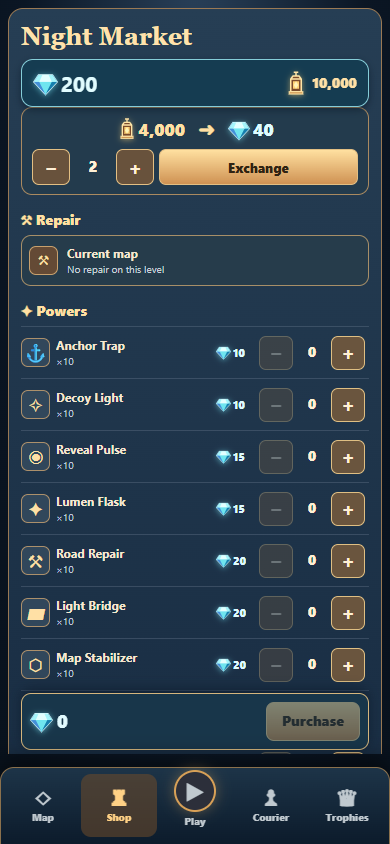
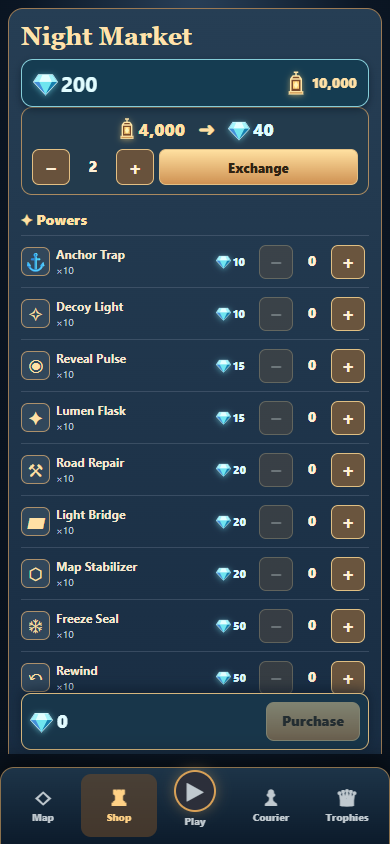
Keep map repairs on the map

Changed region(s): [[0.5538, 0.2773, 0.9538, 0.8318], [0.0308, 0.2464, 0.4308, 0.8318]]

diff --git a/game/shell.js b/game/shell.js
@@ -102,7 +102,7 @@
   const setActive = id => nav.querySelectorAll('button').forEach(b => b.classList.toggle('active', b.dataset.destination === id));
   const powerShop=document.getElementById('powerShop'),powerShopHome=powerShop.parentElement;
   const restorePowerShop=()=>{if(powerShop.parentElement!==powerShopHome)powerShopHome.append(powerShop)};
-  const close = () => { repairFromShop=false;restorePowerShop();overlay.hidden = true; overlay.innerHTML = '';document.body.classList.remove('modalOpen'); };
+  const close = () => { restorePowerShop();overlay.hidden = true; overlay.innerHTML = '';document.body.classList.remove('modalOpen'); };
   const panel = (title, body) => { restorePowerShop();overlay.hidden = false;document.body.classList.add('modalOpen');overlay.innerHTML = `<section class="integratedPanel" role="dialog" aria-modal="true" aria-label="${title}"><div class="head"><h2>${title}</h2><button class="close" type="button" aria-label="Close">×</button></div>${body}</section>`; };
   const legendButton=document.createElement('button');
   legendButton.type='button';legendButton.id='boardLegendButton';legendButton.setAttribute('aria-label','Map symbols');legendButton.textContent='?';
@@ -130,7 +130,6 @@
   const renderRepairCallout=()=>{const level=window.__campaign.getCurrentLevel(),r=level?.repair,s=getSave();if(!r||r.effect==='open'){repairCallout.hidden=true;return}repairCallout.hidden=false;const bought=!!s.repairs?.[level.n],cost=gems.repairPrice(r.cost),missing=Math.max(0,cost-s.gems);repairCallout.innerHTML=`<div class="repairMark" aria-hidden="true">⚒</div><div class="repairInfo"><strong>${bought?'Road repaired':r.name}</strong><span class="gemAmount">${bought?'Shortcut active':`${gemAmount(cost)} gems · ${gemAmount(s.gems)} owned${missing?` · need ${missing} more`:''}`}</span></div><button type="button" data-repair-open ${bought?'disabled':''}>${bought?'Done':'View'}</button>`};
   new MutationObserver(renderRepairCallout).observe(document.getElementById('repairBody'),{childList:true,subtree:true});
   repairCallout.addEventListener('click',e=>{if(e.target.closest('[data-repair-open]'))confirmRepair()});
-  let repairFromShop=false;
   const confirmRepair=()=>{const level=window.__campaign.getCurrentLevel(),r=level?.repair,s=getSave();if(!r||s.repairs?.[level.n])return;if(r.effect==='open'){const cell=document.querySelector(`#board .cell[data-x="${r.tile[0]}"][data-y="${r.tile[1]}"]`);if(cell)showRepairTile(cell);return}const cost=gems.repairPrice(r.cost),missing=Math.max(0,cost-s.gems);panel('Repair this road?',`<p><strong>${r.name}</strong></p><div class="repairCost"><span>Repair cost <strong class="gemAmount">${gemAmount(cost)} gems</strong></span><span>Owned <strong class="gemAmount">${gemAmount(s.gems)} gems</strong></span></div>${missing?`<p class="repairMissing">Need ${missing.toLocaleString()} more gems. Earn points and exchange them in the Shop.</p>`:''}<div class="repairActions"><button type="button" data-repair-cancel>Keep gems</button><button type="button" data-repair-approve ${missing?'disabled':''}>Spend ${cost} gems</button></div>`);overlay.querySelector('.integratedPanel').classList.add('repairPanel')};
   renderRepairCallout();
   const handledResults=new WeakSet();
@@ -142,12 +141,11 @@
   };
   const openShop = () => {
     close();
-    const s = getSave(),level=window.__campaign.getCurrentLevel(),repair=level?.repair,repaired=!!s.repairs?.[level?.n],repairCost=repair?gems.repairPrice(repair.cost):0;
+    const s = getSave();
     const maxExchange=Math.floor(s.wallet/gems.exchangePoints);
     exchangeQty=maxExchange?Math.max(1,Math.min(exchangeQty,maxExchange)):0;
     const exchangeMarkup=`<div class="shopExchange" aria-label="Exchange earned points for gems"><div class="exchangeAmounts"><strong class="pointAmount" data-exchange-points>${pointAmount(exchangeQty*gems.exchangePoints)}</strong><span aria-hidden="true">➜</span><strong class="gemAmount" data-exchange-total>${gemAmount(exchangeQty*gems.exchangeGems)}</strong></div><div class="exchangeControls"><button type="button" data-exchange-minus aria-label="Exchange one fewer batch" ${exchangeQty<=1?'disabled':''}>−</button><output data-exchange-qty aria-label="Exchange batches">${exchangeQty}</output><button type="button" data-exchange-plus aria-label="Exchange one more batch" ${exchangeQty>=maxExchange?'disabled':''}>+</button><button type="button" class="exchangeCommit" data-exchange-submit ${!exchangeQty?'disabled':''}>Exchange</button></div></div>`;
-    const repairCard=repair?`<div class="marketRepair"><span class="marketRepairIcon" aria-hidden="true">⚒</span><span><b>${repair.name}</b><small>${repaired?'✓ Repaired':repair.effect==='open'?'Marked tile · repair on map':'Level '+level.n}</small></span><strong class="gemAmount">${gemAmount(repairCost)}</strong><button type="button" ${repaired?'disabled':repair.effect==='open'?'data-shop-repair-map':'data-shop-repair'}>${repaired?'✓':repair.effect==='open'?'Map':'Repair'}</button></div>`:'<div class="marketRepair empty"><span class="marketRepairIcon" aria-hidden="true">⚒</span><span><b>Current map</b><small>No repair on this level</small></span></div>';
-    shopScreen.innerHTML=`<h2>Night Market</h2><div class="shopWallet"><strong class="gemAmount" aria-label="${s.gems} gems">${gemAmount(s.gems)}</strong><span class="shopPoints" aria-label="${s.wallet} earned points">${pointAmount(s.wallet)}</span></div>${exchangeMarkup}<h3>⚒ Repair</h3>${repairCard}<h3>✦ Powers</h3><div id="marketPowerSlot"></div><h3>${gems.icon} Gems</h3><div class="gemPacks">${gems.packs.map((pack,i)=>`<button type="button" class="gemPack gemPack${i}" data-gem-pack="${pack.id}" aria-label="Preview ${pack.amount} gems for ${pack.usd}"><span class="packArt" aria-hidden="true">${gems.icon.repeat(i+1)}</span><strong>${pack.amount.toLocaleString()}</strong><b>${pack.usd}</b></button>`).join('')}</div><p class="shopNote">Preview prices · Checkout unavailable</p>`;
+    shopScreen.innerHTML=`<h2>Night Market</h2><div class="shopWallet"><strong class="gemAmount" aria-label="${s.gems} gems">${gemAmount(s.gems)}</strong><span class="shopPoints" aria-label="${s.wallet} earned points">${pointAmount(s.wallet)}</span></div>${exchangeMarkup}<h3>✦ Powers</h3><div id="marketPowerSlot"></div><h3>${gems.icon} Gems</h3><div class="gemPacks">${gems.packs.map((pack,i)=>`<button type="button" class="gemPack gemPack${i}" data-gem-pack="${pack.id}" aria-label="Preview ${pack.amount} gems for ${pack.usd}"><span class="packArt" aria-hidden="true">${gems.icon.repeat(i+1)}</span><strong>${pack.amount.toLocaleString()}</strong><b>${pack.usd}</b></button>`).join('')}</div><p class="shopNote">Preview prices · Checkout unavailable</p>`;
     shopScreen.querySelector('#marketPowerSlot').append(powerShop);
     powerShop.querySelector('details').open=true;
     document.body.dataset.screen='shop';setActive('shop');
@@ -167,8 +165,6 @@
     if(e.target.closest('[data-exchange-minus]')){exchangeQty--;updateExchange();return}
     if(e.target.closest('[data-exchange-plus]')){exchangeQty++;updateExchange();return}
     if(e.target.closest('[data-exchange-submit]')){if(!window.__campaign.exchangePointsForGems(exchangeQty))return;exchangeQty=1;openShop();return}
-    if(e.target.closest('[data-shop-repair]')){repairFromShop=true;confirmRepair();return}
-    if(e.target.closest('[data-shop-repair-map]')){navigate('play');enterBoard();return}
     if(e.target.closest('[data-gem-pack]')){const note=shopScreen.querySelector('.shopNote');note.textContent='Checkout unavailable in this browser build';note.scrollIntoView({block:'nearest',behavior:'smooth'})}
   });
   const openCourier = () => {
@@ -192,8 +188,8 @@
   overlay.addEventListener('click', e => {
     if (e.target === overlay || e.target.closest('.close')) { close(); return; }
     if(e.target.closest('[data-open-guide]')){close();enterBoard();document.getElementById('help').click();return}
-    if(e.target.closest('[data-repair-cancel]')){if(repairFromShop){repairFromShop=false;openShop()}else close();return}
-    if(e.target.closest('[data-repair-approve]')){const origin=repairCallout.querySelector('[data-repair-open]');window.__campaign.buyRepairConfirmed(origin);if(repairFromShop){repairFromShop=false;openShop()}else close();renderRepairCallout();return}
+    if(e.target.closest('[data-repair-cancel]')){close();return}
+    if(e.target.closest('[data-repair-approve]')){const origin=repairCallout.querySelector('[data-repair-open]');window.__campaign.buyRepairConfirmed(origin);close();renderRepairCallout();return}
     const b = e.target.closest('[data-courier]');
     if (b) { selectedCourier = Number(b.dataset.courier); saveAppearance(); openCourier(); }
     const look = e.target.closest('[data-look]');

diff --git a/game/shell.css b/game/shell.css
@@ -354,16 +354,6 @@ body.testerBuild .storybookWordmark::after{content:'TESTER';display:block;margin
 .gemShopPanel h3{display:flex;align-items:center;gap:5px;margin:12px 0 6px;font:900 14px system-ui;color:#ffe0a3}
 .gemShopPanel h3 .gemIcon{width:16px;height:16px}
 .gemShopPanel .shopWallet{position:sticky;top:-13px;z-index:4;box-shadow:0 3px 8px #07152388}
-.gemShopPanel .marketRepair{display:grid;grid-template-columns:32px minmax(0,1fr) auto auto;align-items:center;gap:6px;min-height:51px;padding:7px;border:1px solid #a78f68;border-radius:10px;background:#263c4b}
-.gemShopPanel .marketRepair.empty{grid-template-columns:32px 1fr}
-.gemShopPanel .marketRepairIcon{display:grid;place-items:center;width:29px;height:29px;border:1px solid #c7a06d;border-radius:7px;background:#644a35;color:#ffe3aa}
-.gemShopPanel .marketRepair b,.gemShopPanel .marketRepair small{display:block}
-.gemShopPanel .marketRepair b{font-size:12px}
-.gemShopPanel .marketRepair small{font-size:10px;color:#c6d2d8}
-.gemShopPanel .marketRepair .gemAmount{font-size:12px}
-.gemShopPanel .marketRepair .gemIcon{width:15px;height:15px}
-.gemShopPanel .marketRepair button{min-width:53px;min-height:33px;padding:4px 6px;border:1px solid #e9c581;border-radius:7px;background:#76573a;color:#ffebc6;font-weight:900;font-size:11px}
-.gemShopPanel .marketRepair button:disabled{opacity:.5}
 .gemShopPanel #powerShop{margin-top:0}
 .gemShopPanel #powerShop details{display:block}
 .gemShopPanel #powerShop details>summary{display:none}

diff --git a/game/GEM_ECONOMY.md b/game/GEM_ECONOMY.md
@@ -2,6 +2,8 @@
 
 The browser game keeps earned points as the play score. Repairs and optional power restocks spend gems. Players can select multiple **2,000 earned points → 20 gems** batches in the Shop and exchange them in one transaction. The +/− controls never spend points; Exchange applies the total. A paid pack preview never adds gems. The tester build starts with 200 test gems; its save is separate from the player build.
 
+The Shop sells power charges and displays gem packs. It does not list a level-specific repair: the player inspects the marked tile on the map and sees its cost before choosing whether to repair it.
+
 Shop prices use four visible gem tiers. Existing repair prices in level data determine the tier without changing the levels: old cost 1–1,000 points = 10 gems; 1,001–2,000 = 15; 2,001–5,000 = 20; above 5,000 = 50. A zero-cost repair remains free. Milestone unlocks and level-provided power charges remain available.
 
 | Power restock | Gems |
